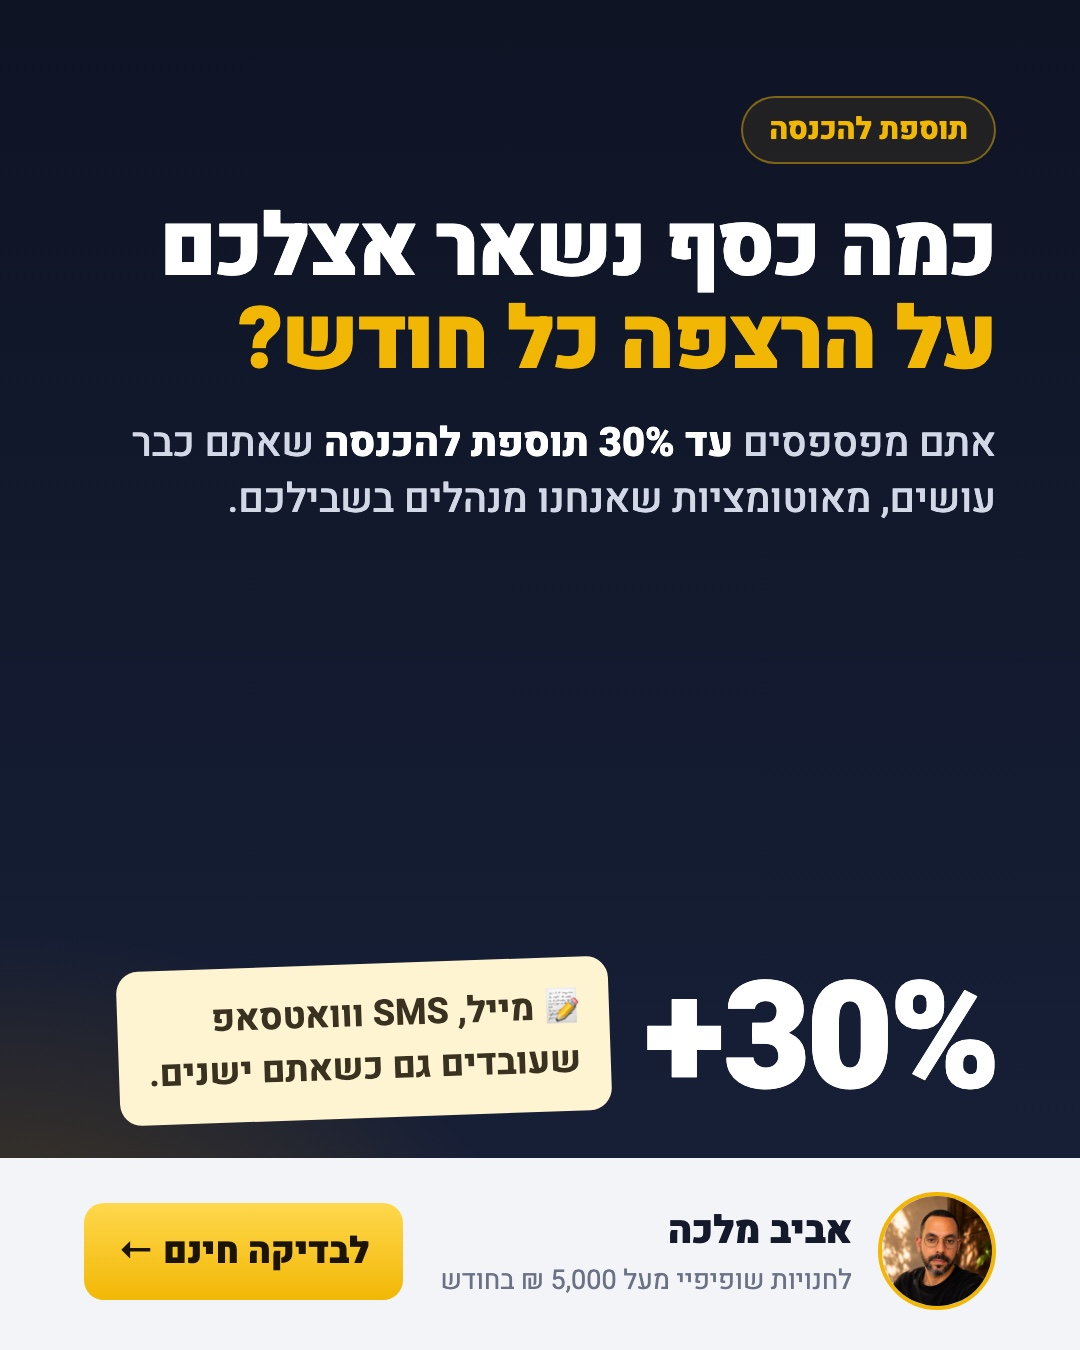
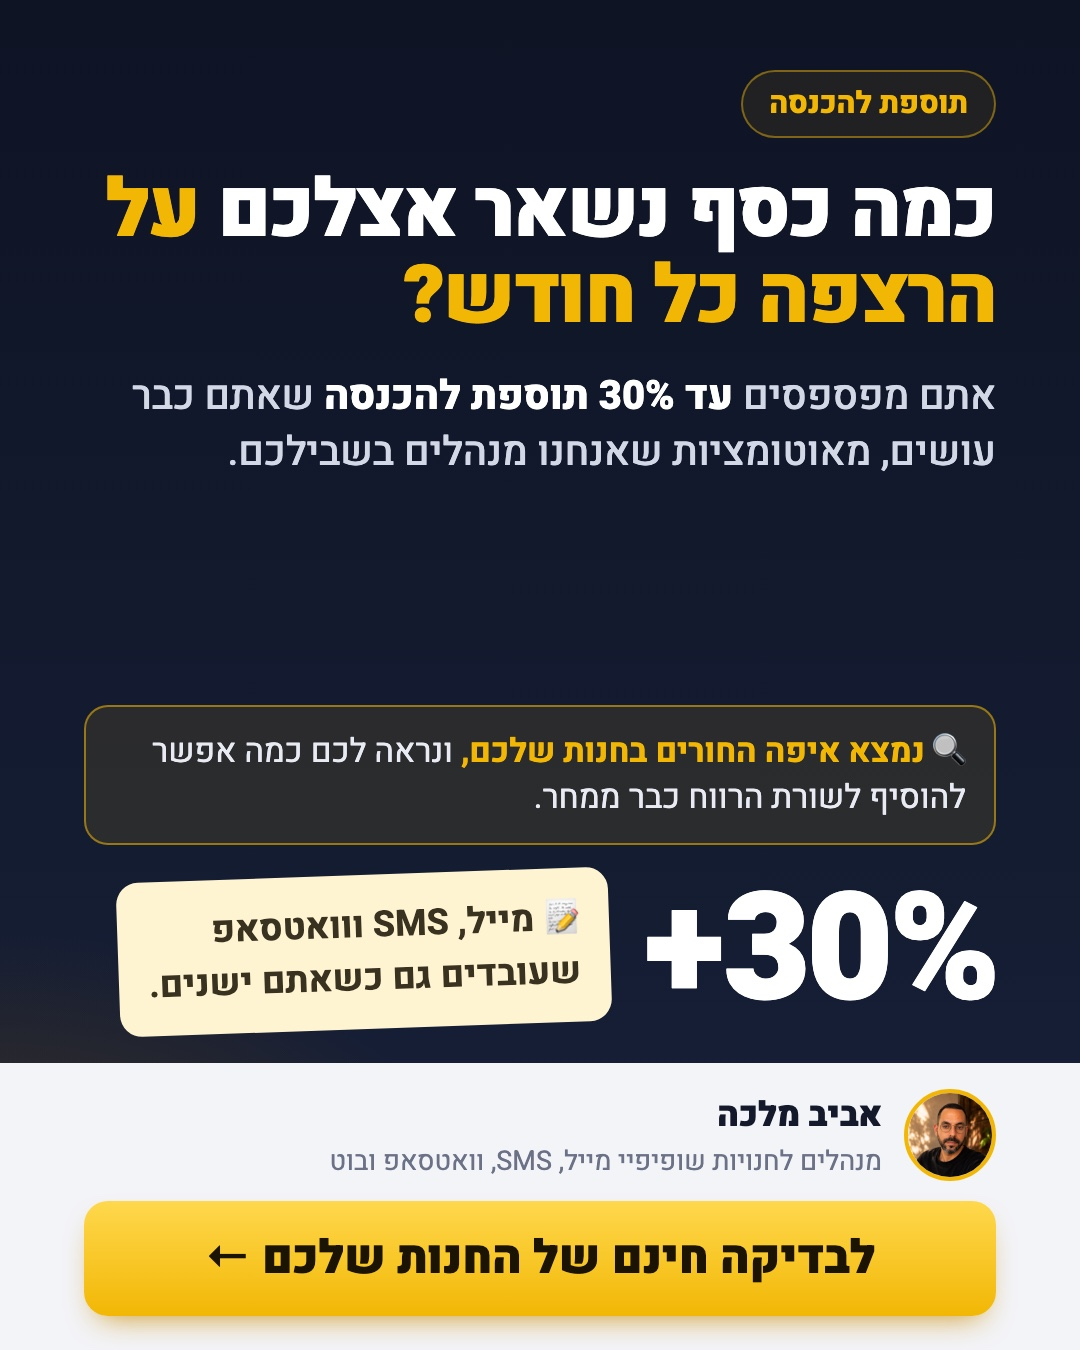
backend v2 ads: no dates, who-we-are line, curiosity box, full-width CTA

diff --git a/king/ads2/ads.html b/king/ads2/ads.html
@@ -10,17 +10,17 @@ body{background:#333;font-family:Heebo,sans-serif}
 .ab{width:1080px;height:1350px;position:relative;overflow:hidden;display:none;flex-direction:column;
   background:radial-gradient(900px 700px at 0% 100%,rgba(120,84,10,.55),transparent 60%),linear-gradient(180deg,#0E1424,#18213A);color:#fff}
 .ab.on{display:flex}
-.top{flex:1;padding:96px 84px 40px;display:flex;flex-direction:column}
+.top{flex:1;min-height:0;padding:70px 84px 34px;display:flex;flex-direction:column}
 .kick{align-self:flex-start;font-weight:800;font-size:30px;color:var(--gold);border:2px solid rgba(242,183,5,.45);background:rgba(242,183,5,.08);padding:10px 26px;border-radius:999px}
-h1{margin-top:38px;font-weight:900;font-size:86px;line-height:1.08;letter-spacing:-.02em}
+h1{margin-top:30px;font-weight:900;font-size:80px;line-height:1.08;letter-spacing:-.02em}
 h1 em{font-style:normal;color:var(--gold)}
 .sub{margin-top:28px;font-size:40px;line-height:1.4;color:#D3D8E6;font-weight:500}
 .sub b{color:#fff;font-weight:800}
-.vis{margin-top:auto}
-.bot{background:#F3F4F7;color:var(--ink);padding:34px 84px 40px;display:flex;align-items:center;gap:26px}
-.bot img{width:118px;height:118px;border-radius:50%;object-fit:cover;border:4px solid var(--gold)}
+.vis{margin-top:30px}
+.bot{background:#F3F4F7;color:var(--ink);padding:26px 84px 34px;display:flex;flex-direction:column;gap:20px}.who{display:flex;align-items:center;gap:22px}.cta{background:linear-gradient(180deg,#FFD84D,var(--gold));color:#1B1405;font-weight:900;font-size:46px;text-align:center;padding:24px 20px;border-radius:24px;box-shadow:0 14px 30px -14px rgba(201,138,0,.9)}
+.bot img{width:92px;height:92px;border-radius:50%;object-fit:cover;border:4px solid var(--gold)}
 .bot .n{flex:1}
-.bot .n b{display:block;font-size:38px;font-weight:900}
+.bot .n b{display:block;font-size:34px;font-weight:900}
 .bot .n span{display:block;font-size:27px;color:var(--mute);margin-top:2px}
 .btn{background:linear-gradient(180deg,#FFD84D,var(--gold));color:#1B1405;font-weight:900;font-size:36px;padding:22px 34px;border-radius:20px;white-space:nowrap}
 /* visuals */
@@ -48,11 +48,11 @@ h1 em{font-style:normal;color:var(--gold)}
 .old{opacity:.7;text-decoration:line-through;text-decoration-thickness:4px}
 
 .sub2{margin-top:24px;font-size:38px;line-height:1.4;color:#D3D8E6;font-weight:500}.sub2 b{color:#fff;font-weight:800}
-.proof{margin-top:auto;background:#fff;border-radius:28px;padding:22px;box-shadow:0 30px 60px -30px rgba(0,0,0,.8)}
+.proof{margin-top:30px;background:#fff;border-radius:28px;padding:22px;box-shadow:0 30px 60px -30px rgba(0,0,0,.8)}
 .proof img{display:block;width:100%;border-radius:14px}
 .proof p{color:#6B7287;font-size:24px;margin-top:12px;font-weight:600}
 .face{position:absolute;left:0;bottom:0;width:470px;height:100%;object-fit:cover;object-position:50% 20%;-webkit-mask-image:linear-gradient(90deg,#000 55%,transparent);mask-image:linear-gradient(90deg,#000 55%,transparent)}
-.split{display:grid;grid-template-columns:1fr 1fr;gap:20px;margin-top:auto}
+.split{display:grid;grid-template-columns:1fr 1fr;gap:20px;margin-top:30px}
 .split .col{border-radius:28px;padding:30px 28px}
 .split .b4{background:rgba(255,255,255,.06);border:2px solid rgba(255,255,255,.14)}
 .split .af{background:#fff;color:#141A2B}
@@ -60,11 +60,12 @@ h1 em{font-style:normal;color:var(--gold)}
 .split .b4 h3{color:#AEB4C6}.split .af h3{color:#15803d}
 .split li{list-style:none;font-size:31px;line-height:1.3;padding:10px 0;font-weight:600}
 .split .b4 li{color:#C9CEDD}.split .af li+li,.split .b4 li+li{border-top:2px solid rgba(127,127,127,.2)}
-.ntf{margin-top:auto;display:flex;flex-direction:column;gap:16px}
+.ntf{margin-top:24px;display:flex;flex-direction:column;gap:16px}
 .ntf .lab{color:#AEB4C6}
 .nt{display:flex;gap:20px;align-items:center;background:rgba(255,255,255,.95);color:#141A2B;border-radius:26px;padding:22px 26px;box-shadow:0 20px 40px -24px rgba(0,0,0,.8)}
 .nt i{font-style:normal;width:64px;height:64px;border-radius:16px;background:#95BF47;color:#fff;display:flex;align-items:center;justify-content:center;font-size:36px;flex:none}
 .nt b{display:block;font-size:31px}.nt span{display:block;font-size:25px;color:#6B7287}
+.hole{margin-top:auto;border:2px solid rgba(242,183,5,.55);background:rgba(242,183,5,.1);border-radius:24px;padding:22px 28px;font-size:33px;line-height:1.4;color:#E8EBF3}.hole b{color:var(--gold)}
 </style>
 </head>
 <body>
@@ -73,43 +74,49 @@ h1 em{font-style:normal;color:var(--gold)}
   <span class="kick">מעבר בלי כאב ראש</span>
   <h1>חושבים להחליף מערכת דיוור <em>ומפחדים מכאב הראש?</em></h1>
   <p class="sub">אתם מפספסים <b>עד 30% תוספת להכנסה</b> שאתם כבר עושים, מאוטומציות שאנחנו מנהלים בשבילכם.</p>
+  <div class="hole">🔍 <b>נמצא איפה החורים בחנות שלכם,</b> ונראה לכם כמה אפשר להוסיף לשורת הרווח כבר ממחר.</div>
   <div class="vis clock"><span class="t" style="direction:rtl;font-size:120px">שיחה אחת</span><span class="note" style="white-space:nowrap">📝 את כל המעבר<br>אנחנו לוקחים מכם.</span></div>
-</div><div class="bot"><img src="../img/aviv_round.jpg"><div class="n"><b>אביב מלכה</b><span>לחנויות שופיפיי מעל 5,000 ₪ בחודש</span></div><span class="btn">לבדיקה חינם ←</span></div></div>
+</div><div class="bot"><div class="who"><img src="../img/aviv_round.jpg"><div class="n"><b>אביב מלכה</b><span>מנהלים לחנויות שופיפיי מייל, SMS, וואטסאפ ובוט</span></div></div><div class="cta">לבדיקה חינם של החנות שלכם ←</div></div></div>
 
 <div class="ab" id="B"><div class="top">
   <span class="kick">תוספת להכנסה</span>
   <h1>כמה כסף נשאר אצלכם <em>על הרצפה כל חודש?</em></h1>
   <p class="sub">אתם מפספסים <b>עד 30% תוספת להכנסה</b> שאתם כבר עושים, מאוטומציות שאנחנו מנהלים בשבילכם.</p>
+  <div class="hole">🔍 <b>נמצא איפה החורים בחנות שלכם,</b> ונראה לכם כמה אפשר להוסיף לשורת הרווח כבר ממחר.</div>
   <div class="vis clock"><span class="t">+30%</span><span class="note">📝 מייל, SMS ווואטסאפ<br>שעובדים גם כשאתם ישנים.</span></div>
-</div><div class="bot"><img src="../img/aviv_round.jpg"><div class="n"><b>אביב מלכה</b><span>לחנויות שופיפיי מעל 5,000 ₪ בחודש</span></div><span class="btn">לבדיקה חינם ←</span></div></div>
+</div><div class="bot"><div class="who"><img src="../img/aviv_round.jpg"><div class="n"><b>אביב מלכה</b><span>מנהלים לחנויות שופיפיי מייל, SMS, וואטסאפ ובוט</span></div></div><div class="cta">לבדיקה חינם של החנות שלכם ←</div></div></div>
 
 <div class="ab" id="C"><div class="top">
   <span class="kick">שאלה לבעלי חנויות</span>
   <h1>כמה לקוחות קנו אצלכם פעם אחת, <em>ומאז שקט?</em></h1>
   <p class="sub">אתם מפספסים <b>עד 30% תוספת להכנסה</b> שאתם כבר עושים, מאוטומציות שאנחנו מנהלים בשבילכם.</p>
+  <div class="hole">🔍 <b>נמצא איפה החורים בחנות שלכם,</b> ונראה לכם כמה אפשר להוסיף לשורת הרווח כבר ממחר.</div>
   <div class="vis clock"><span class="t">1×</span><span class="note">📝 קנו פעם אחת…<br>ומאז לא שמעו מכם.</span></div>
-</div><div class="bot"><img src="../img/aviv_round.jpg"><div class="n"><b>אביב מלכה</b><span>לחנויות שופיפיי מעל 5,000 ₪ בחודש</span></div><span class="btn">לבדיקה חינם ←</span></div></div>
+</div><div class="bot"><div class="who"><img src="../img/aviv_round.jpg"><div class="n"><b>אביב מלכה</b><span>מנהלים לחנויות שופיפיי מייל, SMS, וואטסאפ ובוט</span></div></div><div class="cta">לבדיקה חינם של החנות שלכם ←</div></div></div>
 
 <div class="ab" id="D"><div class="top">
   <span class="kick">יום רגיל בחנות</span>
   <h1>כל היום אורזים הזמנות, <em>ורק בלילה נזכרים בניוזלטר.</em></h1>
   <p class="sub">אתם מפספסים <b>עד 30% תוספת להכנסה</b> שאתם כבר עושים, מאוטומציות שאנחנו מנהלים בשבילכם.</p>
+  <div class="hole">🔍 <b>נמצא איפה החורים בחנות שלכם,</b> ונראה לכם כמה אפשר להוסיף לשורת הרווח כבר ממחר.</div>
   <div class="vis clock"><span class="t">23:40</span><span class="note">📝 לשלוח מבצע ללקוחות…<br>מחר. בטוח מחר.</span></div>
-</div><div class="bot"><img src="../img/aviv_round.jpg"><div class="n"><b>אביב מלכה</b><span>לחנויות שופיפיי מעל 5,000 ₪ בחודש</span></div><span class="btn">לבדיקה חינם ←</span></div></div>
+</div><div class="bot"><div class="who"><img src="../img/aviv_round.jpg"><div class="n"><b>אביב מלכה</b><span>מנהלים לחנויות שופיפיי מייל, SMS, וואטסאפ ובוט</span></div></div><div class="cta">לבדיקה חינם של החנות שלכם ←</div></div></div>
 
 <div class="ab" id="E"><div class="top">
   <span class="kick">בוט שירות לקוחות</span>
   <h1>לקוחות שואלים בוואטסאפ <em>גם בעשר בלילה.</em></h1>
   <p class="sub">אתם מפספסים <b>עד 30% תוספת להכנסה</b> שאתם כבר עושים, מאוטומציות שאנחנו מנהלים בשבילכם.</p>
+  <div class="hole">🔍 <b>נמצא איפה החורים בחנות שלכם,</b> ונראה לכם כמה אפשר להוסיף לשורת הרווח כבר ממחר.</div>
   <div class="vis clock"><span class="t">22:04</span><span class="note">💬 "איפה ההזמנה שלי?"<br>הבוט כבר ענה.</span></div>
-</div><div class="bot"><img src="../img/aviv_round.jpg"><div class="n"><b>אביב מלכה</b><span>לחנויות שופיפיי מעל 5,000 ₪ בחודש</span></div><span class="btn">לבדיקה חינם ←</span></div></div>
+</div><div class="bot"><div class="who"><img src="../img/aviv_round.jpg"><div class="n"><b>אביב מלכה</b><span>מנהלים לחנויות שופיפיי מייל, SMS, וואטסאפ ובוט</span></div></div><div class="cta">לבדיקה חינם של החנות שלכם ←</div></div></div>
 
 <div class="ab" id="F"><div class="top">
-  <span class="kick">בלאק פריידיי מתקרב</span>
+  <span class="kick">לפני המבצע הבא</span>
   <h1>מבצע בלי מייל, SMS ווואטסאפ מוכנים <em>זה תקציב שהולך לפח.</em></h1>
   <p class="sub">אתם מפספסים <b>עד 30% תוספת להכנסה</b> שאתם כבר עושים, מאוטומציות שאנחנו מנהלים בשבילכם.</p>
-  <div class="vis clock"><span class="t">27.11</span><span class="note">📝 מייל, SMS, וואטסאפ…<br>מוכנים? לא בטוח.</span></div>
-</div><div class="bot"><img src="../img/aviv_round.jpg"><div class="n"><b>אביב מלכה</b><span>לחנויות שופיפיי מעל 5,000 ₪ בחודש</span></div><span class="btn">לבדיקה חינם ←</span></div></div>
+  <div class="hole">🔍 <b>נמצא איפה החורים בחנות שלכם,</b> ונראה לכם כמה אפשר להוסיף לשורת הרווח כבר ממחר.</div>
+  <div class="vis clock"><span class="t" style="direction:rtl;font-size:120px">3 חורים</span><span class="note" style="white-space:nowrap">📝 מייל, SMS, וואטסאפ…<br>מה מחובר אצלכם?</span></div>
+</div><div class="bot"><div class="who"><img src="../img/aviv_round.jpg"><div class="n"><b>אביב מלכה</b><span>מנהלים לחנויות שופיפיי מייל, SMS, וואטסאפ ובוט</span></div></div><div class="cta">לבדיקה חינם של החנות שלכם ←</div></div></div>
 
 
 <!-- G: real proof -->
@@ -117,37 +124,41 @@ h1 em{font-style:normal;color:var(--gold)}
   <span class="kick">מהחנות שלי</span>
   <h1>1.27 מיליון דולר <em>רק מהודעות טקסט.</em></h1>
   <p class="sub2">את אותו מנוע של מייל, SMS ווואטסאפ <b>אנחנו מנהלים לחנויות שופיפיי.</b> בלעדיו אתם מפספסים עד 30% תוספת להכנסה.</p>
+  <div class="hole">🔍 <b>נמצא איפה החורים בחנות שלכם,</b> ונראה לכם כמה אפשר להוסיף לשורת הרווח כבר ממחר.</div>
   <div class="proof"><div style="overflow:hidden;border-radius:14px;direction:ltr"><img src="../img/p_sms.jpg" style="width:150%;max-width:none;border-radius:0"></div><p>צילום מסך ממערכת ה-SMS של החנות שאני מנהל</p></div>
-</div><div class="bot"><img src="../img/aviv_round.jpg"><div class="n"><b>אביב מלכה</b><span>לחנויות שופיפיי מעל 5,000 ₪ בחודש</span></div><span class="btn">לבדיקה חינם ←</span></div></div>
+</div><div class="bot"><div class="who"><img src="../img/aviv_round.jpg"><div class="n"><b>אביב מלכה</b><span>מנהלים לחנויות שופיפיי מייל, SMS, וואטסאפ ובוט</span></div></div><div class="cta">לבדיקה חינם של החנות שלכם ←</div></div></div>
 
 <!-- H: Aviv's face + quote -->
 <div class="ab" id="H"><div class="top" style="padding-left:430px;position:relative"><img class="face" src="../img/aviv_studio.jpg">
   <span class="kick">15 שנה באיקומרס</span>
   <h1 style="font-size:74px">"אתם מפספסים <em>עד 30% תוספת להכנסה</em> שאתם כבר עושים."</h1>
   <p class="sub2">מיילים שלא יוצאים, עגלות שאף אחד לא מחזיר, לקוחות שקנו פעם אחת. <b>בואו נבדוק את שלכם, בחינם.</b></p>
-</div><div class="bot"><img src="../img/aviv_round.jpg"><div class="n"><b>אביב מלכה</b><span>לחנויות שופיפיי מעל 5,000 ₪ בחודש</span></div><span class="btn">לבדיקה חינם ←</span></div></div>
+  <div class="hole" style="margin-top:auto">🔍 <b>נמצא איפה החורים בחנות שלכם,</b> ונראה לכם כמה אפשר להוסיף לשורת הרווח כבר ממחר.</div>
+  
+</div><div class="bot"><div class="who"><img src="../img/aviv_round.jpg"><div class="n"><b>אביב מלכה</b><span>מנהלים לחנויות שופיפיי מייל, SMS, וואטסאפ ובוט</span></div></div><div class="cta">לבדיקה חינם של החנות שלכם ←</div></div></div>
 
 <!-- I: before / after -->
 <div class="ab" id="I"><div class="top">
   <span class="kick">מייל · SMS · וואטסאפ</span>
   <h1>אותה חנות, אותם לקוחות. <em>עד 30% יותר הכנסה.</em></h1>
+  <div class="hole">🔍 <b>נמצא איפה החורים בחנות שלכם,</b> ונראה לכם כמה אפשר להוסיף לשורת הרווח כבר ממחר.</div>
   <div class="split">
     <div class="col b4"><h3>היום</h3><ul><li>מבצע אחד בחודש, כשנזכרים</li><li>עגלות נטושות נשארות נטושות</li><li>שאלות בוואטסאפ מחכות לבוקר</li></ul></div>
     <div class="col af"><h3>✓ עם ניהול שלנו</h3><ul><li>מייל, SMS ווואטסאפ כל שבוע</li><li>אוטומציות שמחזירות קונים</li><li>בוט שעונה ללקוחות מיד</li></ul></div>
   </div>
-</div><div class="bot"><img src="../img/aviv_round.jpg"><div class="n"><b>אביב מלכה</b><span>לחנויות שופיפיי מעל 5,000 ₪ בחודש</span></div><span class="btn">לבדיקה חינם ←</span></div></div>
+</div><div class="bot"><div class="who"><img src="../img/aviv_round.jpg"><div class="n"><b>אביב מלכה</b><span>מנהלים לחנויות שופיפיי מייל, SMS, וואטסאפ ובוט</span></div></div><div class="cta">לבדיקה חינם של החנות שלכם ←</div></div></div>
 
 <!-- J: notifications -->
 <div class="ab" id="J"><div class="top">
   <span class="kick">בזמן שאתם ישנים</span>
   <h1>הזמנות שמגיעות <em>מלקוחות שכבר קנו פעם.</em></h1>
   <p class="sub2">אוטומציות שאנחנו מנהלים בשבילכם מוסיפות <b>עד 30% להכנסה שאתם כבר עושים.</b></p>
+  <div class="hole">🔍 <b>נמצא איפה החורים בחנות שלכם,</b> ונראה לכם כמה אפשר להוסיף לשורת הרווח כבר ממחר.</div>
   <div class="ntf"><p class="lab">המחשה</p>
     <div class="nt"><i>🛍</i><div><b>הזמנה חדשה · 02:13</b><span>חזרה מתזכורת עגלה נטושה בוואטסאפ</span></div></div>
-    <div class="nt"><i>🛍</i><div><b>הזמנה חדשה · 06:40</b><span>לקוחה חוזרת, אחרי מייל "חסר לנו אותך"</span></div></div>
     <div class="nt"><i>🛍</i><div><b>הזמנה חדשה · 08:05</b><span>מ-SMS המבצע של הבוקר</span></div></div>
   </div>
-</div><div class="bot"><img src="../img/aviv_round.jpg"><div class="n"><b>אביב מלכה</b><span>לחנויות שופיפיי מעל 5,000 ₪ בחודש</span></div><span class="btn">לבדיקה חינם ←</span></div></div>
+</div><div class="bot"><div class="who"><img src="../img/aviv_round.jpg"><div class="n"><b>אביב מלכה</b><span>מנהלים לחנויות שופיפיי מייל, SMS, וואטסאפ ובוט</span></div></div><div class="cta">לבדיקה חינם של החנות שלכם ←</div></div></div>
 
 <script>var k=(location.hash||'#A').slice(1);document.getElementById(k).classList.add('on');</script>
 </body>
